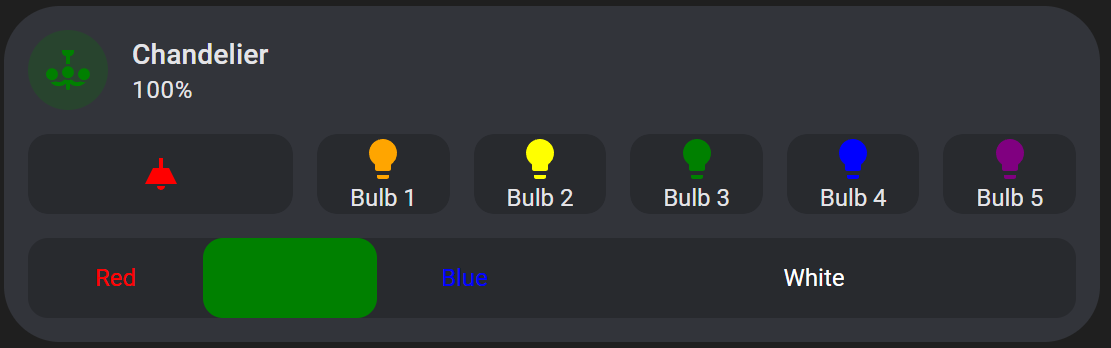
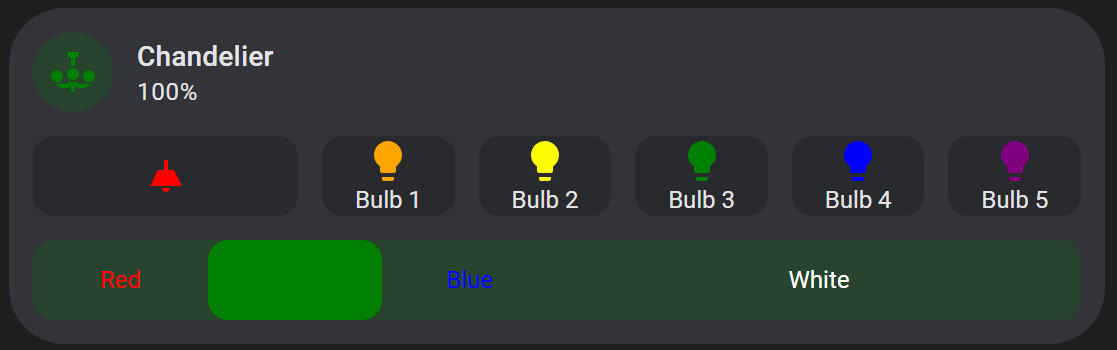
updated README with selector information and added sections on each tile feature type

diff --git a/README.md b/README.md
@@ -29,7 +29,6 @@ The trade off for the level of customizability that this card offers is that it 
 type: custom:service-call
 entries:
   - type: button
-    service: ''
 ```
 
 ## Base Config
@@ -63,7 +62,7 @@ More information on Home Assistant action confirmations can be found [here](http
 
 ### String Interpolation
 
-Many fields such as colors and labels can have the entity state or attributes interpolated, or can accept CSS variables.
+Many fields such as colors and labels can have the entity state or attributes interpolated, or can accept CSS variables and functions.
 
 If any of these values returns an empty string or undefined value, an empty string is returned for the entire string, not just the interpolation. Labels will also not be generated so icons will be properly centered.
 
@@ -131,7 +130,7 @@ Certain attributes will have additional parsing applied to them before being int
 | target  | object | The entity IDs, device IDs, or area IDs to call the service on. |
 | data    | object | Additional data to pass to the service call.                    |
 
-If no target is provided, the tile card's entity ID will be used instead. This entity ID is also used for string interpolation.
+If no target is provided, the tile card's entity ID will be used instead.
 
 To better understand service calls, use the services Developer Tool found in Home Assistant.
 
@@ -139,8 +138,8 @@ To better understand service calls, use the services Developer Tool found in Hom
 
 | Name               | Type   | Description                                                                                          |
 | ------------------ | ------ | ---------------------------------------------------------------------------------------------------- |
-| color              | string | Custom color for the tile feature. Can also see a CSS function (see examples).                       |
-| opacity            | float  | Opacity of the tile feature background. Defaults to 0.2. Cannot be string interpolated.              |
+| color              | string | Custom color for the tile feature. Can also be a CSS function (see examples).                        |
+| opacity            | float  | Opacity of the tile feature. Defaults to 0.2. Cannot be string interpolated.                         |
 | icon               | string | Icon to use.                                                                                         |
 | icon_color         | string | Custom color for the icon.                                                                           |
 | label              | string | String label to place underneath the icon, or by itself.                                             |
@@ -245,7 +244,7 @@ entries:
 
 This card is set up to work with Home Assistant `input_select` entities out of the box. Just using the config above, you can use it to change the values of input selects entities. By default each button will call the `input_select.select_option` service. The list of options is automatically retrieved, but you still have to include the `options` array and give each option button style information so that they will render (you can create blank buttons by setting the option to `{}`).
 
-Since each selector option is a service call button, you can override it's default behavior by including service call information as shown in [example 2](#Example-2). Doing so will also break the current option highlighting, but you can use the `option` field within an option alongside `value_attribute` to restore this, also shown in example 2. `option` will be the value to compare against the entity's value, whether that is it's state or one of it's attributes. If they match and are not undefined, then the the option will be highlighted. The current option highlight color defaults to tile color, but can be changed by setting `color` to a different value.
+Since each selector option is a service call button, you can override it's default behavior by including service call information as shown in [example 2](#Example-2). Doing so will also break the current option highlighting, but you can use the `option` field within an option alongside `value_attribute` to restore this, also shown in example 2. `option` will be the value to compare against the entity's value, whether that is it's state or one of it's attributes. If they match and are not undefined, then the the option will be highlighted. The option highlight color defaults to tile color, but can be changed by setting `color` to a different value. You can also set `color` within an option to give that option a different highlight color.
 
 # Examples
 
@@ -323,6 +322,7 @@ features:
       - type: selector
         entity_id: light.chandelier
         value_attribute: rgb_color
+        background_color: rgb(VALUE)
         options:
           - service: light.turn_on
             option: 255,0,0
